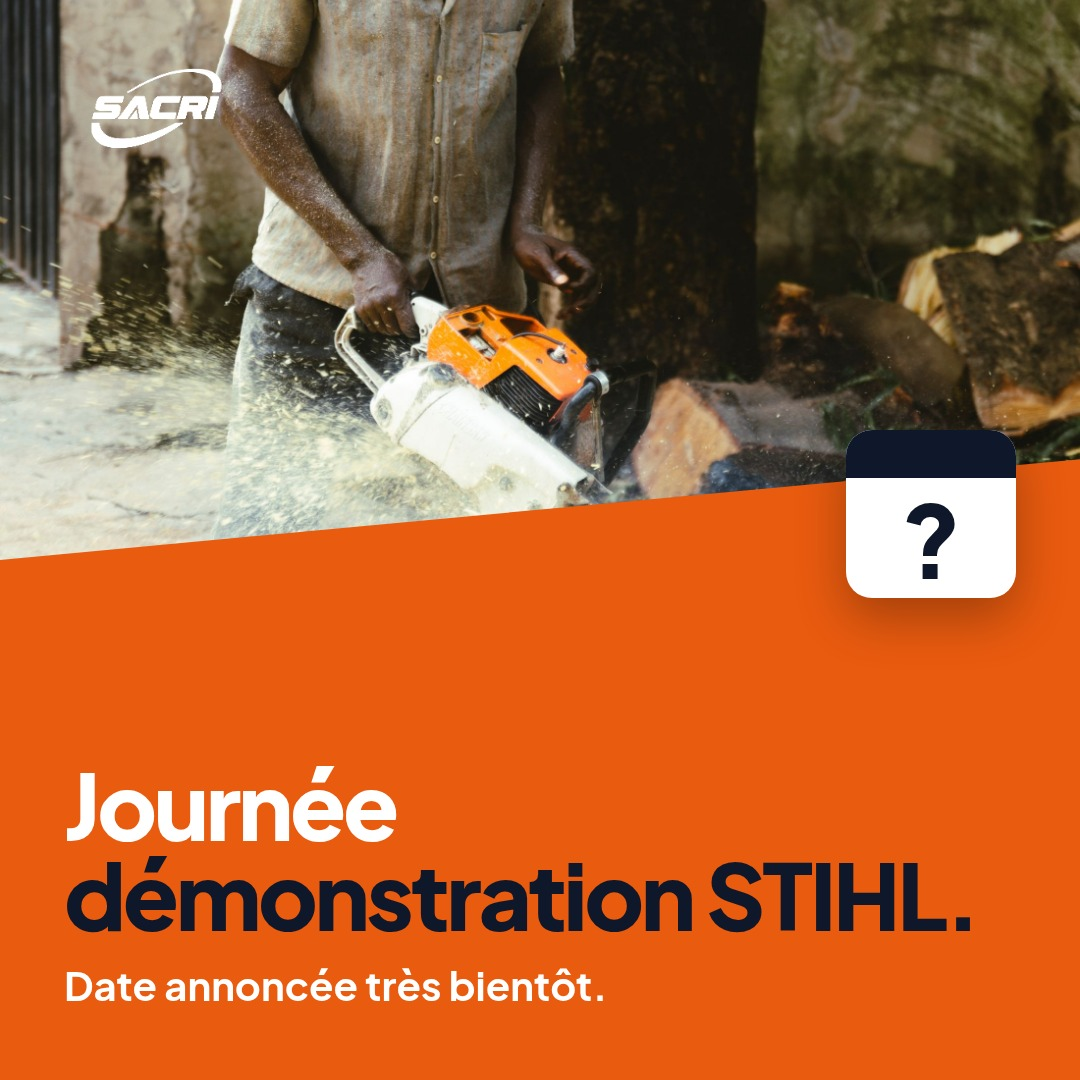
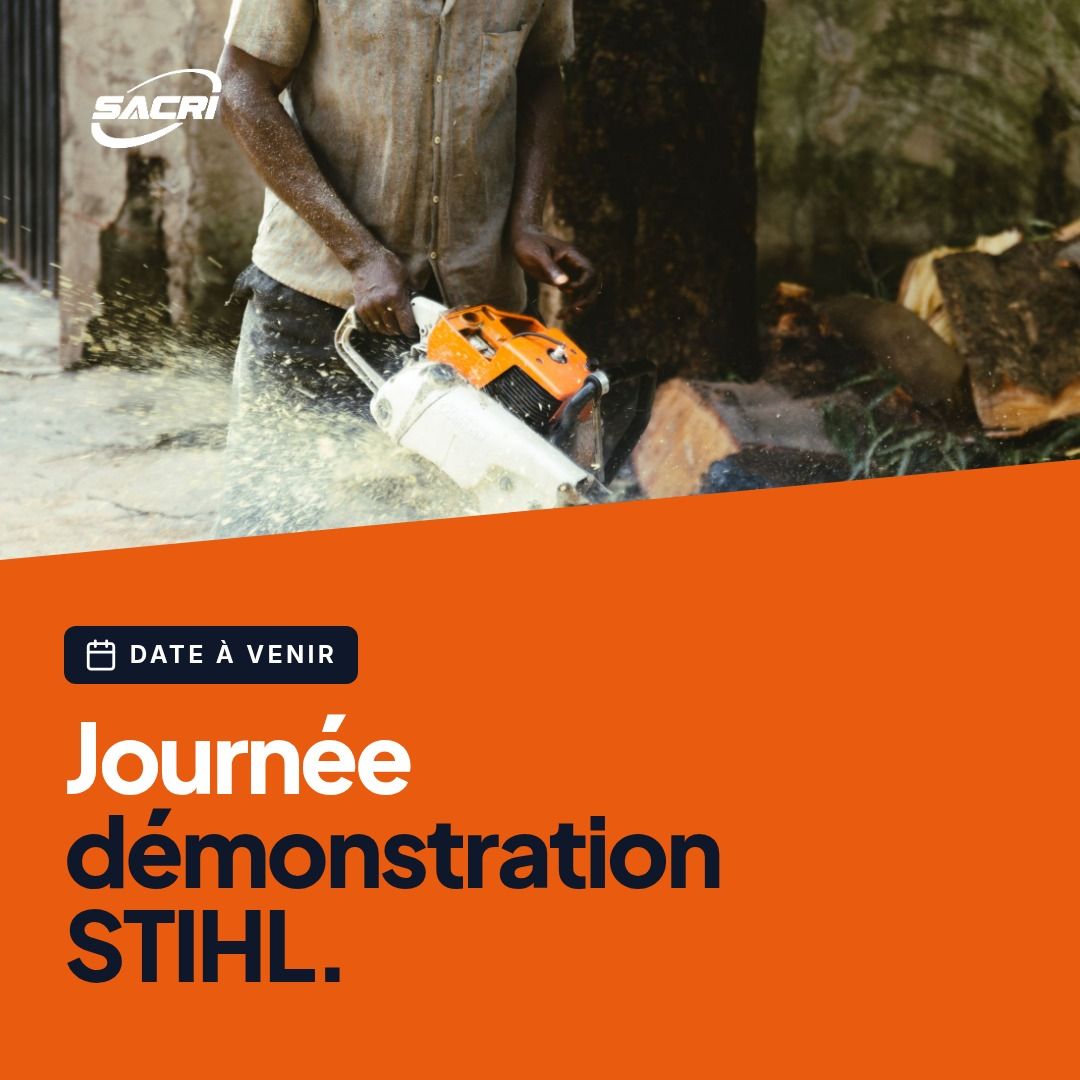
Site proposé

Changed region(s): [[0.0611, 0.5806, 0.9167, 0.9472], [0.7639, 0.3972, 0.9472, 0.5806]]

diff --git a/app.js b/app.js
@@ -1,6 +1,6 @@
 (function(){var v='sobre',f='carre';
 function draw(){document.querySelectorAll('.card').forEach(function(c){var d=JSON.parse(c.dataset.imgs)[v][f];var m=c.querySelector('.media');
-m.innerHTML=d.map(function(u,i){return '<img src="'+u+'?v=241124c" alt="" loading="lazy">'}).join('');m.scrollLeft=0;
+m.innerHTML=d.map(function(u,i){return '<img src="'+u+'?v=251124a" alt="" loading="lazy">'}).join('');m.scrollLeft=0;
 c.classList.toggle('st',f==='story');var dt=c.querySelector('.dots');if(dt){dt.innerHTML=d.map(function(_,i){return '<i class="'+(i?'':'on')+'"></i>'}).join('');
 m.onscroll=function(){var k=Math.round(m.scrollLeft/m.clientWidth);dt.querySelectorAll('i').forEach(function(x,j){x.classList.toggle('on',j===k)})}}
 c.querySelector('.dl').innerHTML=d.map(function(u,i){return '<a href="'+u.replace('img/','hd/')+'" download>Télécharger'+(d.length>1?' '+(i+1):'')+'</a>'}).join('')})}
